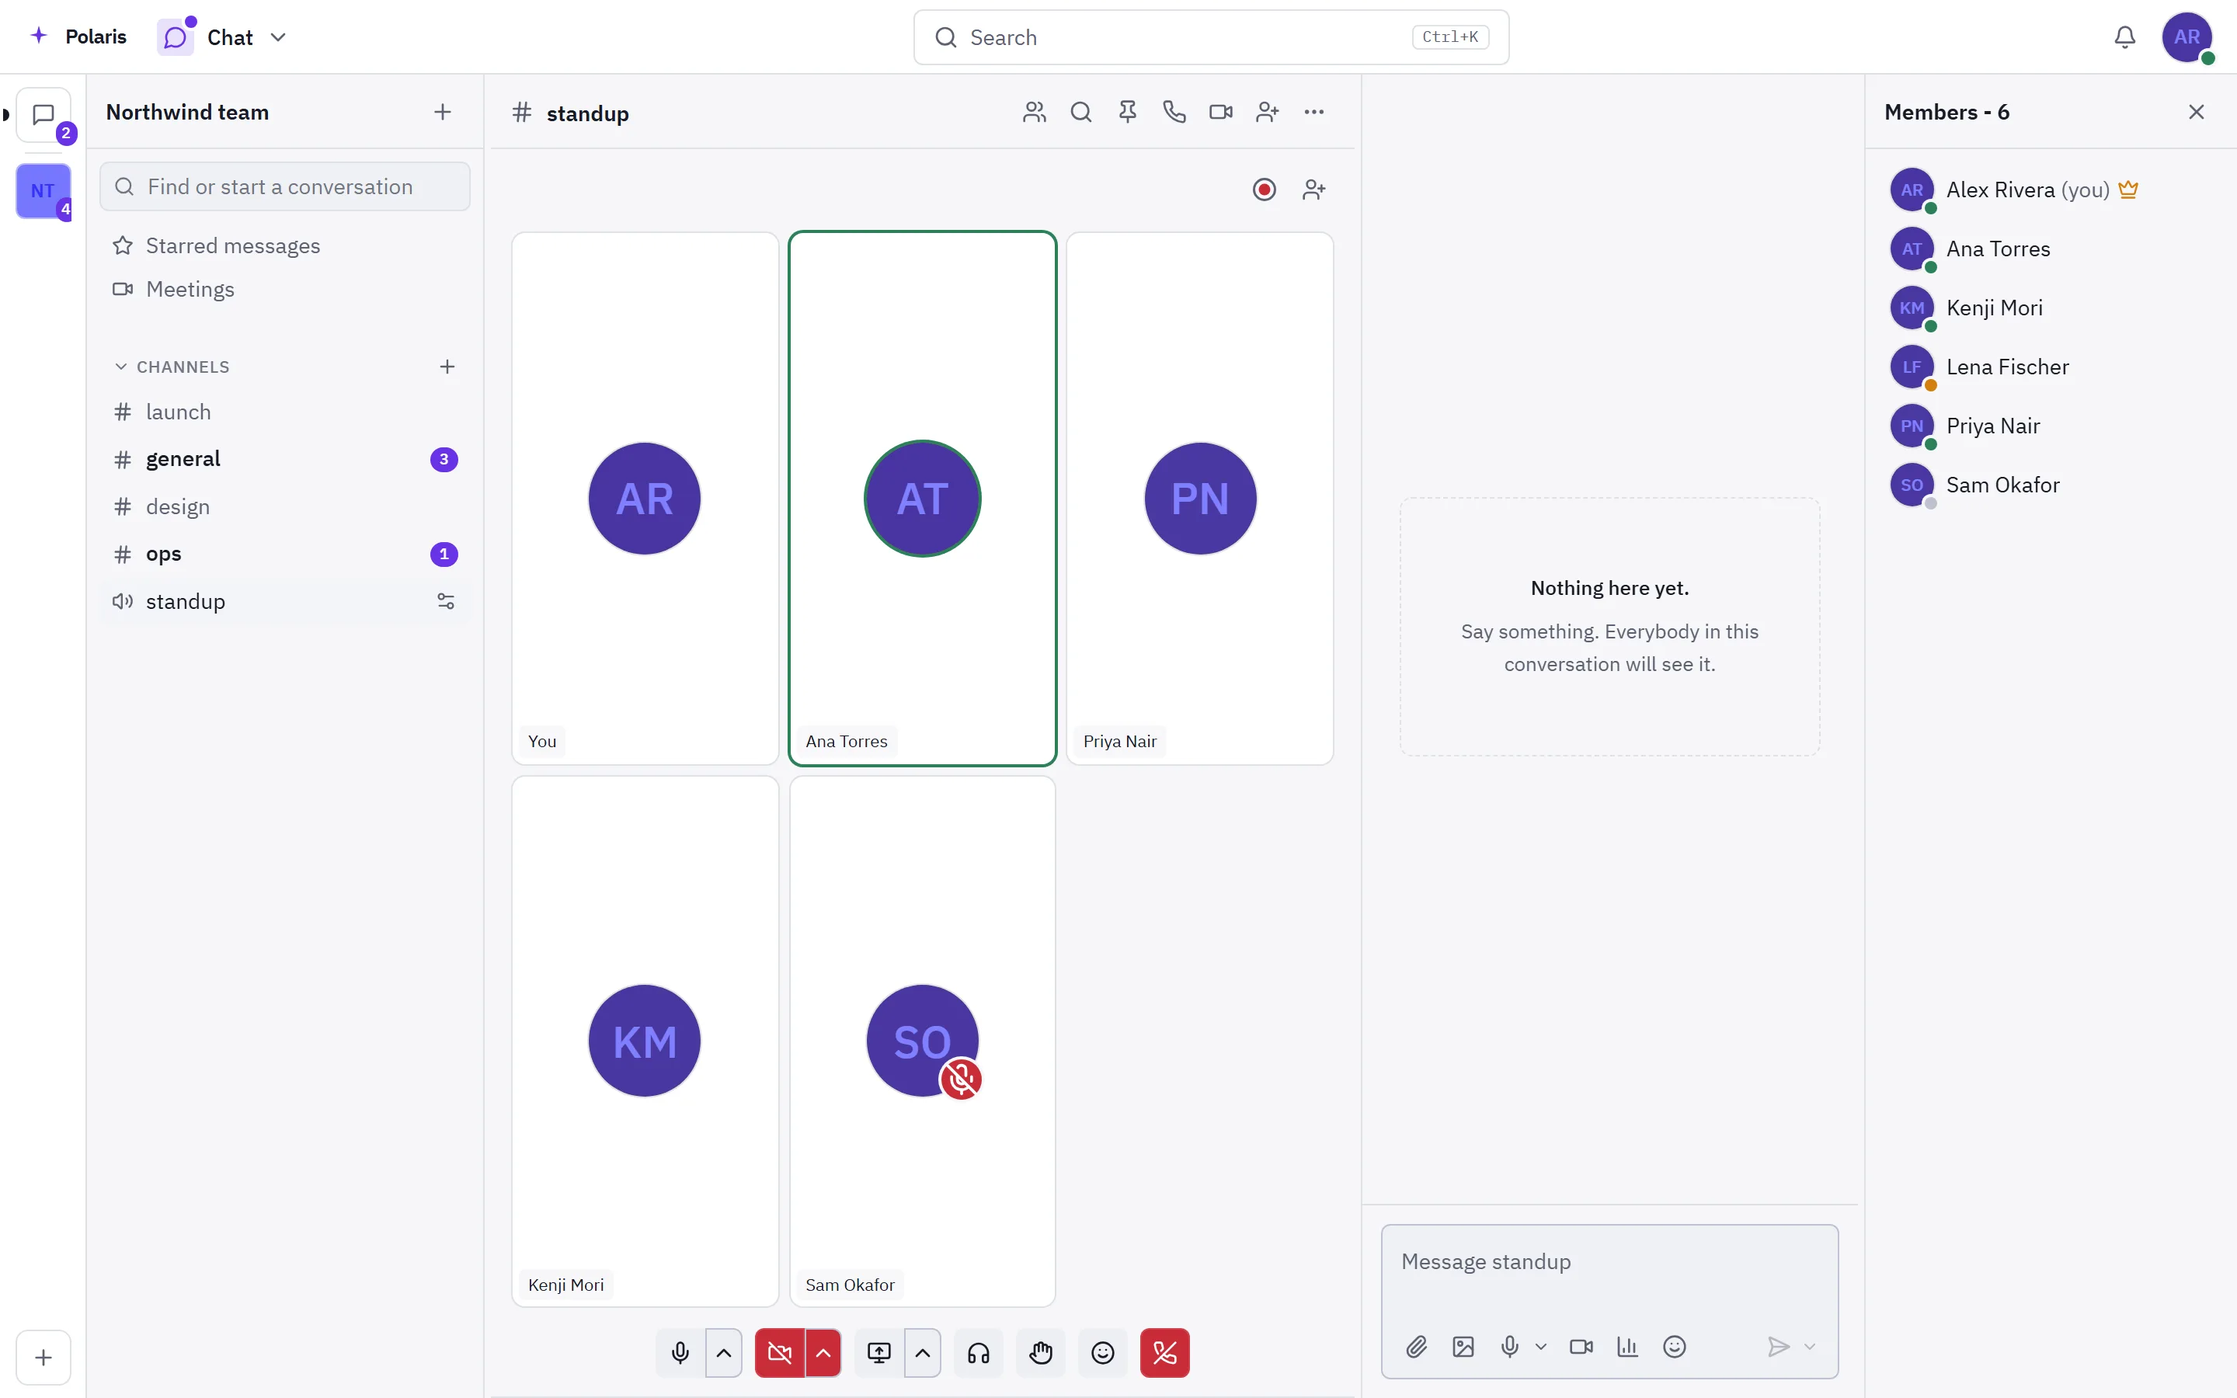
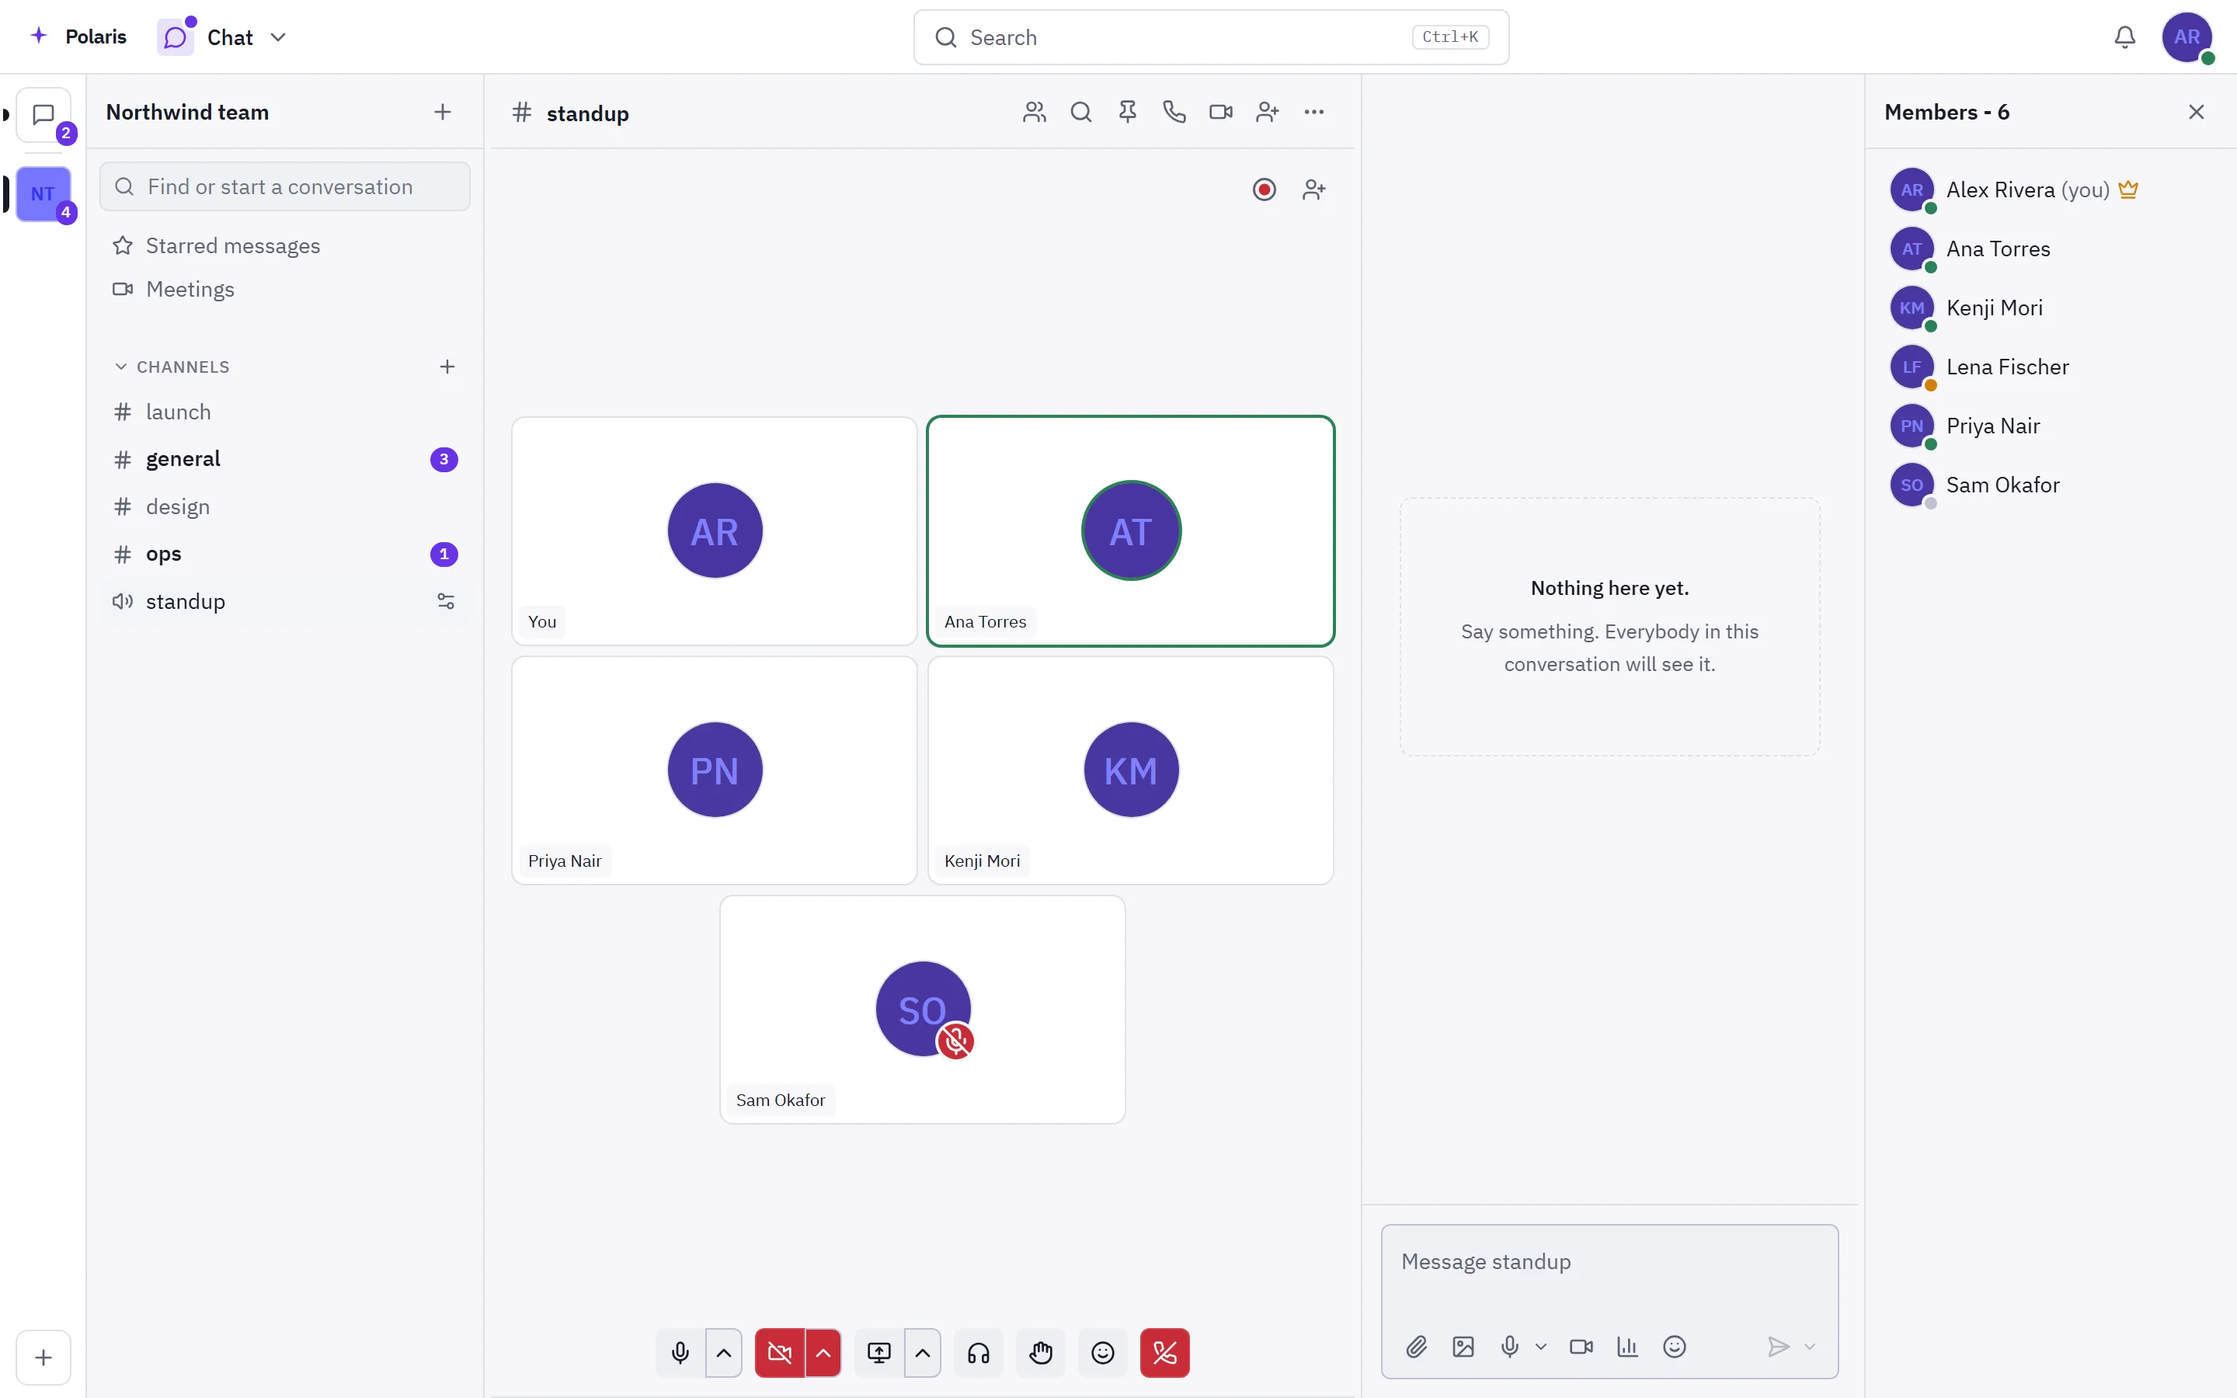
🐛 fix(chat): call faces are wide tiles with the last row centred, and the rail's unread counts are whole
A call grid sized each tile from a fixed column count, so five people in a tall
voice channel were five portrait strips. Tiles now take the 16:9 shape of the
video they carry, as large as the panel allows, with a short last row centred,
in a meeting, a voice channel and a direct call alike. The face in an empty tile
follows the tile, so on a phone it no longer covers the name.

The space rail's scroll box was as narrow as its pills and clipped the unread
count hanging past each one's corner.

The README pictures use the addresses Polaris really gives game servers:
<name>.mc / .ark / .gta under the domain.

diff --git a/dashboard/apps/web/src/app/(app)/chat/call-room.tsx b/dashboard/apps/web/src/app/(app)/chat/call-room.tsx
@@ -56,6 +56,7 @@ import { QuietMicNotice } from "./quiet-mic-notice";
 import { SlowConnectionNotice } from "@/components/connection-banner";
 import { playCallSound } from "@/lib/call-sounds";
 import { useEffect, useRef, useState } from "react";
+import { FACE_MAX, useFaceSize, useTileFit } from "./call-grid";
 import type { FilteredMic, MicFilter } from "./mic-filter";
 import {
     REACTIONS,
@@ -514,6 +515,14 @@ export function CallRoom({
     /** Offered shares sit among the people, first, rather than in a row above
      *  them. Only where the people are drawn in the main area. */
     const offersInline = place === "direct" && peopleShown;
+    /** Every tile in the people grid: your own, everybody else's, and the
+     *  shares offered among them. */
+    const tileCount =
+        1 +
+        (admitted ?? []).filter((person) => person.id !== call.participantId).length +
+        (offersInline ? putAway.length : 0);
+    /** Gap between tiles, in pixels: `gap-2`. */
+    const tiles = useTileFit<HTMLDivElement>(tileCount, 8);
     /** In the band, a stream being watched is all there is: pressing it again
      *  lets go of it and brings the people back, rather than enlarging a picture
      *  that already has the whole band. */
@@ -1036,6 +1045,15 @@ export function CallRoom({
 
             {peopleShown && !bareFaces && (
                 <div
+                    ref={staged ? undefined : tiles.ref}
+                    style={
+                        !staged && tiles.fit.width > 0
+                            ? ({
+                                  "--tile-w": `${tiles.fit.width}px`,
+                                  "--tile-h": `${tiles.fit.height}px`
+                              } as React.CSSProperties)
+                            : undefined
+                    }
                     className={cn(
                         // Room inside the edges for the speaking ring, which is
                         // drawn outside a tile (ring-2): the strip scrolls
@@ -1055,7 +1073,13 @@ export function CallRoom({
                         // cannot be scrolled to.
                         staged
                             ? "h-[6.25rem] w-max max-w-full shrink-0 self-center auto-cols-[9rem] grid-flow-col overflow-x-auto"
-                            : cn("flex-1", columns)
+                            : tiles.fit.width > 0
+                              ? // Wide tiles, as big as the panel allows, with a
+                                // short last row centred under the others - the
+                                // shape every voice channel has. Until the panel
+                                // has been measured, the even grid stands in.
+                                "flex flex-1 flex-wrap content-center justify-center [&>*]:h-[var(--tile-h)] [&>*]:w-[var(--tile-w)] [&>*]:flex-none"
+                              : cn("flex-1", columns)
                     )}
                 >
                     {offersInline && putAway.map((stage) => offer(stage, "size-full min-h-24"))}
@@ -1852,10 +1876,6 @@ function clock(seconds: number): string {
     return `${Math.floor(seconds / 60)}:${String(seconds % 60).padStart(2, "0")}`;
 }
 
-/** How big the face in an empty tile is. One size for every tile: a grid where
- *  the faces are different sizes reads as a mistake. */
-const AVATAR_SIZE = 72;
-
 /** What a stream's menu needs, less the thing it wraps. */
 type StreamMenuFor = Omit<React.ComponentProps<typeof StreamMenu>, "children">;
 
@@ -1977,7 +1997,7 @@ function Face({
         <li className="flex w-20 shrink-0 flex-col items-center gap-1">
             <span className="relative">
                 <Avatar
-                    size={AVATAR_SIZE}
+                    size={FACE_MAX}
                     person={{ id: personId, name }}
                     callBadge={deafened ? "deafened" : muted ? "muted" : null}
                     className={cn(
@@ -2170,6 +2190,9 @@ function Tile({
     const t = useTranslations("chat");
     const video = useRef<HTMLVideoElement>(null);
     const frame = useRef<HTMLDivElement | null>(null);
+    /** The face in an empty tile, sized to the tile: a fixed one spilled over
+     *  the name of every tile in a phone's grid. */
+    const face = useFaceSize(frame);
     /** Pushing into the picture. Held for every tile and used by the ones that
      *  say so - a face in a grid of eight is not a thing anybody zooms. */
     const look = useZoomPan();
@@ -2362,7 +2385,7 @@ function Tile({
                 // grid of eight far faster than eight names are.
                 <span className="absolute inset-0 flex items-center justify-center">
                     <Avatar
-                        size={AVATAR_SIZE}
+                        size={face}
                         person={{ id: personId ?? null, name }}
                         callBadge={deafened ? "deafened" : muted ? "muted" : null}
                         className={cn(

diff --git a/dashboard/apps/web/src/app/(app)/chat/call-grid.ts b/dashboard/apps/web/src/app/(app)/chat/call-grid.ts
@@ -1,0 +1,102 @@
+"use client";
+
+/**
+ * How big each face in a call is, so the grid looks like every voice channel
+ * people already know: wide 16:9 tiles, as large as the panel allows, and a short
+ * last row centred under the others rather than left hanging on the left.
+ *
+ * Measured rather than a column lookup: a fixed number of columns stretches each
+ * tile to whatever height the panel happens to have, which turned five faces in a
+ * tall panel into five portrait strips. The panel is only measured when it
+ * changes size, never per frame.
+ */
+
+import { useEffect, useState } from "react";
+
+/** A video frame's shape. Cameras and screens both send 16:9. */
+export const TILE_RATIO = 16 / 9;
+
+export interface TileFit {
+    readonly columns: number;
+    readonly width: number;
+    readonly height: number;
+}
+
+/**
+ * The column count that gives `count` tiles of `ratio` the largest size inside a
+ * `width` x `height` box with `gap` between them. Every count is tried: with a
+ * room of a few dozen at most it is a handful of divisions.
+ */
+export function fitTiles(
+    count: number,
+    width: number,
+    height: number,
+    gap: number,
+    ratio = TILE_RATIO
+): TileFit {
+    let best: TileFit = { columns: 1, width: 0, height: 0 };
+    if (count < 1 || width <= 0 || height <= 0) return best;
+    for (let columns = 1; columns <= count; columns++) {
+        const rows = Math.ceil(count / columns);
+        const across = (width - gap * (columns - 1)) / columns;
+        const down = (height - gap * (rows - 1)) / rows;
+        const tileWidth = Math.floor(Math.min(across, down * ratio));
+        if (tileWidth > best.width)
+            best = { columns, width: tileWidth, height: Math.floor(tileWidth / ratio) };
+    }
+    return best;
+}
+
+/** The size each of `count` tiles should take in the element the ref is on.
+ *  Zero until the element has been measured. A callback ref, because the grid
+ *  comes and goes with the call's layout and has to be measured again each time
+ *  it is mounted. */
+export function useTileFit<T extends HTMLElement>(count: number, gap: number) {
+    const [node, ref] = useState<T | null>(null);
+    const [box, setBox] = useState({ width: 0, height: 0 });
+    useEffect(() => {
+        // Absent in old browsers and in tests: the even grid and the full-size
+        // face stand in, which is what a call looked like before.
+        if (!node || typeof ResizeObserver === "undefined") return;
+        const observer = new ResizeObserver(([entry]) => {
+            if (!entry) return;
+            const { width, height } = entry.contentRect;
+            setBox((was) =>
+                was.width === width && was.height === height ? was : { width, height }
+            );
+        });
+        observer.observe(node);
+        return () => observer.disconnect();
+    }, [node]);
+    return { ref, fit: fitTiles(count, box.width, box.height, gap) };
+}
+
+/** The largest a face in an empty tile is drawn. */
+export const FACE_MAX = 72;
+/** The smallest: below this the initials stop being readable. */
+const FACE_MIN = 28;
+
+/** How big the face in a tile `height` pixels tall is: under half the tile, so
+ *  the name in the corner never runs into it, and never past `FACE_MAX`. Equal
+ *  tiles get equal faces, so the grid still reads as one size. */
+export function faceSize(height: number): number {
+    if (height <= 0) return FACE_MAX;
+    return Math.max(FACE_MIN, Math.min(FACE_MAX, Math.floor(height * 0.42)));
+}
+
+/** The face size for the tile a ref is on, following the tile as it resizes. */
+export function useFaceSize(frame: { readonly current: HTMLElement | null }): number {
+    const [height, setHeight] = useState(0);
+    useEffect(() => {
+        const node = frame.current;
+        // Absent in old browsers and in tests: the even grid and the full-size
+        // face stand in, which is what a call looked like before.
+        if (!node || typeof ResizeObserver === "undefined") return;
+        const observer = new ResizeObserver(([entry]) => {
+            if (entry) setHeight(entry.contentRect.height);
+        });
+        observer.observe(node);
+        return () => observer.disconnect();
+    }, [frame]);
+    return faceSize(height);
+}

diff --git a/dashboard/scripts/readme-media/fixtures/games.ts b/dashboard/scripts/readme-media/fixtures/games.ts
@@ -54,7 +54,10 @@ export function gameServers(ctx: SceneContext): GameServerSeed[] {
 }
 
 interface Extra {
-    readonly address: string | null;
+    /** The address Polaris gives the server: its name under its game's own label
+     *  (`mc`, `ark`, `gta`), with the port only for a game whose client does not
+     *  look up an SRV record. English and Spanish, because the name is. */
+    readonly address: readonly [en: string, es: string];
     readonly slots: number;
     readonly release?: string;
     readonly software?: string;
@@ -66,7 +69,7 @@ interface Extra {
 
 const EXTRA: readonly Extra[] = [
     {
-        address: "play.example.com",
+        address: ["survival.mc.example.com", "supervivencia.mc.example.com"],
         slots: 20,
         release: "1.21.4",
         software: "Paper",
@@ -84,7 +87,7 @@ const EXTRA: readonly Extra[] = [
         upMinutes: 60 * 31
     },
     {
-        address: "build.example.com",
+        address: ["creative-builds.mc.example.com", "construcciones.mc.example.com"],
         slots: 10,
         release: "1.21.4",
         software: "Fabric",
@@ -94,13 +97,19 @@ const EXTRA: readonly Extra[] = [
         upMinutes: 60 * 6
     },
     {
-        address: "ark.example.com:7777",
+        address: ["the-island.ark.example.com:7777", "the-island.ark.example.com:7777"],
         slots: 30,
         online: 4,
         players: ["Rex Tamer", "Doedicurus", "Kenji", "Sam"],
         upMinutes: 60 * 50
     },
-    { address: "fivem.example.com:30120", slots: 48, online: 0, players: [], upMinutes: null }
+    {
+        address: ["roleplay-city.gta.example.com:30120", "roleplay-city.gta.example.com:30120"],
+        slots: 48,
+        online: 0,
+        players: [],
+        upMinutes: null
+    }
 ];
 
 export function gameFacts(ctx: SceneContext): GameServerFacts[] {
@@ -116,7 +125,7 @@ export function gameFacts(ctx: SceneContext): GameServerFacts[] {
             applicationId: seed.applicationId,
             serverName: "Local",
             running,
-            address: extra.address,
+            address: ctx.say(...extra.address),
             slots: extra.slots,
             release: extra.release ?? null,
             software: extra.software ?? null,

diff --git a/dashboard/apps/web/test/chat/call-grid.test.ts b/dashboard/apps/web/test/chat/call-grid.test.ts
@@ -1,0 +1,52 @@
+/**
+ * The size of each face in a call.
+ *
+ * The defect this pins down: five people in a tall voice channel were five
+ * portrait strips, because a fixed column count stretched every tile to the
+ * panel's height. Tiles keep the 16:9 shape of the video they show, and the
+ * column count is whichever makes them biggest.
+ */
+
+import { describe, expect, it } from "vitest";
+import { fitTiles, TILE_RATIO } from "@/app/(app)/chat/call-grid";
+
+describe("fitTiles", () => {
+    it("keeps every tile 16:9", () => {
+        for (const count of [1, 2, 3, 5, 8, 12]) {
+            const fit = fitTiles(count, 760, 960, 8);
+            expect(Math.abs(fit.width / fit.height - TILE_RATIO)).toBeLessThan(0.02);
+        }
+    });
+
+    it("puts five in two columns of wide tiles in a tall, narrow panel", () => {
+        // The panel of the reported screenshot: about 760 wide, 960 tall. Three
+        // across was the portrait strips; two across is the biggest 16:9 fit.
+        const fit = fitTiles(5, 760, 960, 8);
+        expect(fit.columns).toBe(2);
+        expect(fit.width).toBe(376);
+        expect(fit.height).toBe(211);
+    });
+
+    it("lays a wide panel out in columns", () => {
+        expect(fitTiles(4, 1600, 900, 8).columns).toBe(2);
+        expect(fitTiles(6, 1600, 700, 8).columns).toBe(3);
+    });
+
+    it("fits inside the panel", () => {
+        for (const [count, width, height] of [
+            [5, 760, 960],
+            [7, 1200, 500],
+            [2, 390, 300]
+        ] as const) {
+            const fit = fitTiles(count, width, height, 8);
+            const rows = Math.ceil(count / fit.columns);
+            expect(fit.columns * fit.width + (fit.columns - 1) * 8).toBeLessThanOrEqual(width);
+            expect(rows * fit.height + (rows - 1) * 8).toBeLessThanOrEqual(height);
+        }
+    });
+
+    it("is nothing until the panel has a size", () => {
+        expect(fitTiles(3, 0, 0, 8).width).toBe(0);
+        expect(fitTiles(0, 800, 600, 8).width).toBe(0);
+    });
+});

diff --git a/dashboard/apps/web/src/app/(app)/chat/server-rail.tsx b/dashboard/apps/web/src/app/(app)/chat/server-rail.tsx
@@ -191,7 +191,10 @@ export function ServerRail() {
 
             <span className="h-px w-6 shrink-0 bg-border" />
 
-            <div className="flex min-h-0 flex-1 flex-col items-center gap-1.5 overflow-y-auto overscroll-contain no-scrollbar">
+            {/* The whole width of the rail, and a little room above and below:
+                a scrolling box clips on both axes, and sized to its pills it
+                cut off the unread count that hangs past each one's corner. */}
+            <div className="flex min-h-0 w-full flex-1 flex-col items-center gap-1.5 overflow-y-auto overscroll-contain py-0.5 no-scrollbar">
                 {spaces.map((space) => (
                     <SpaceMenu
                         key={space.id}
